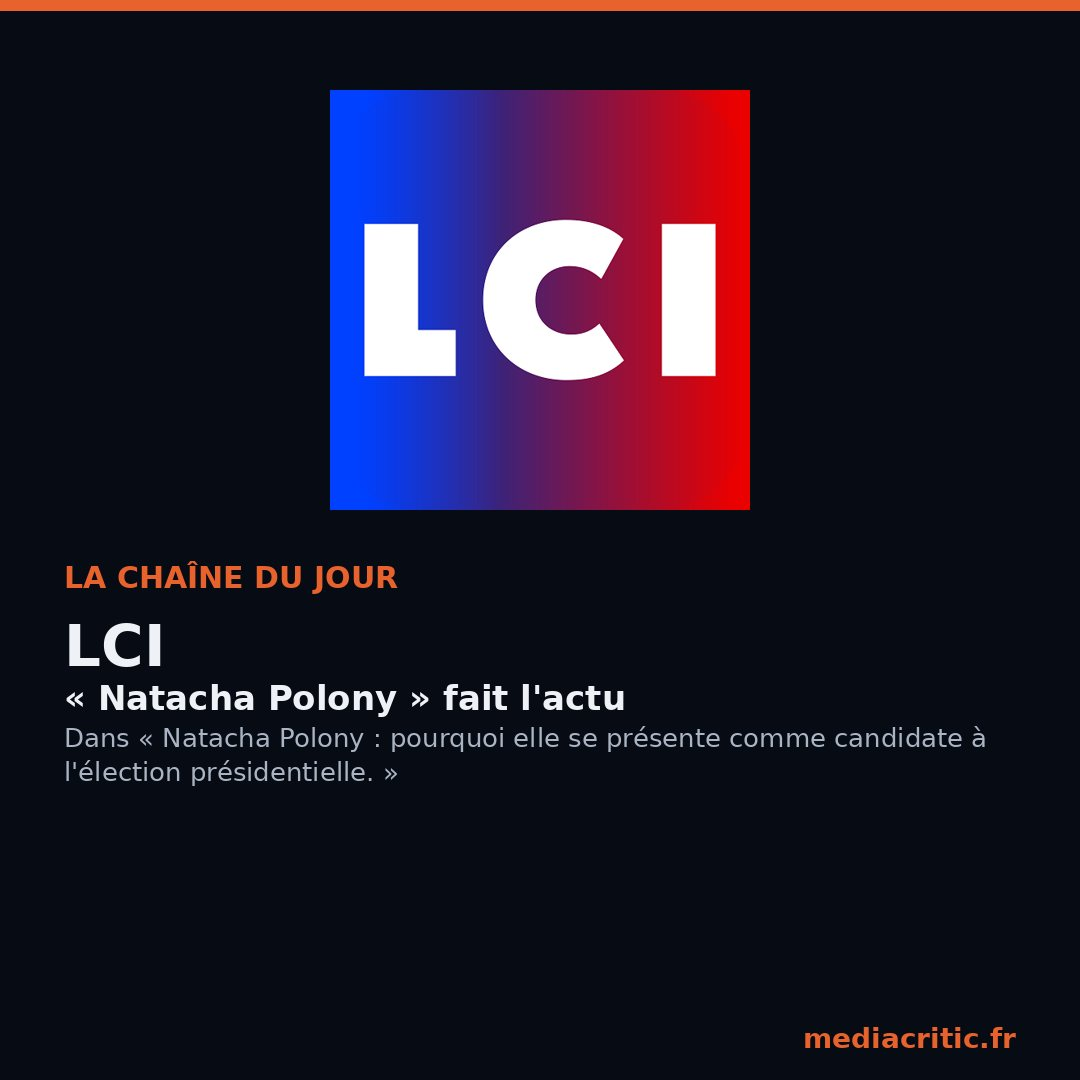
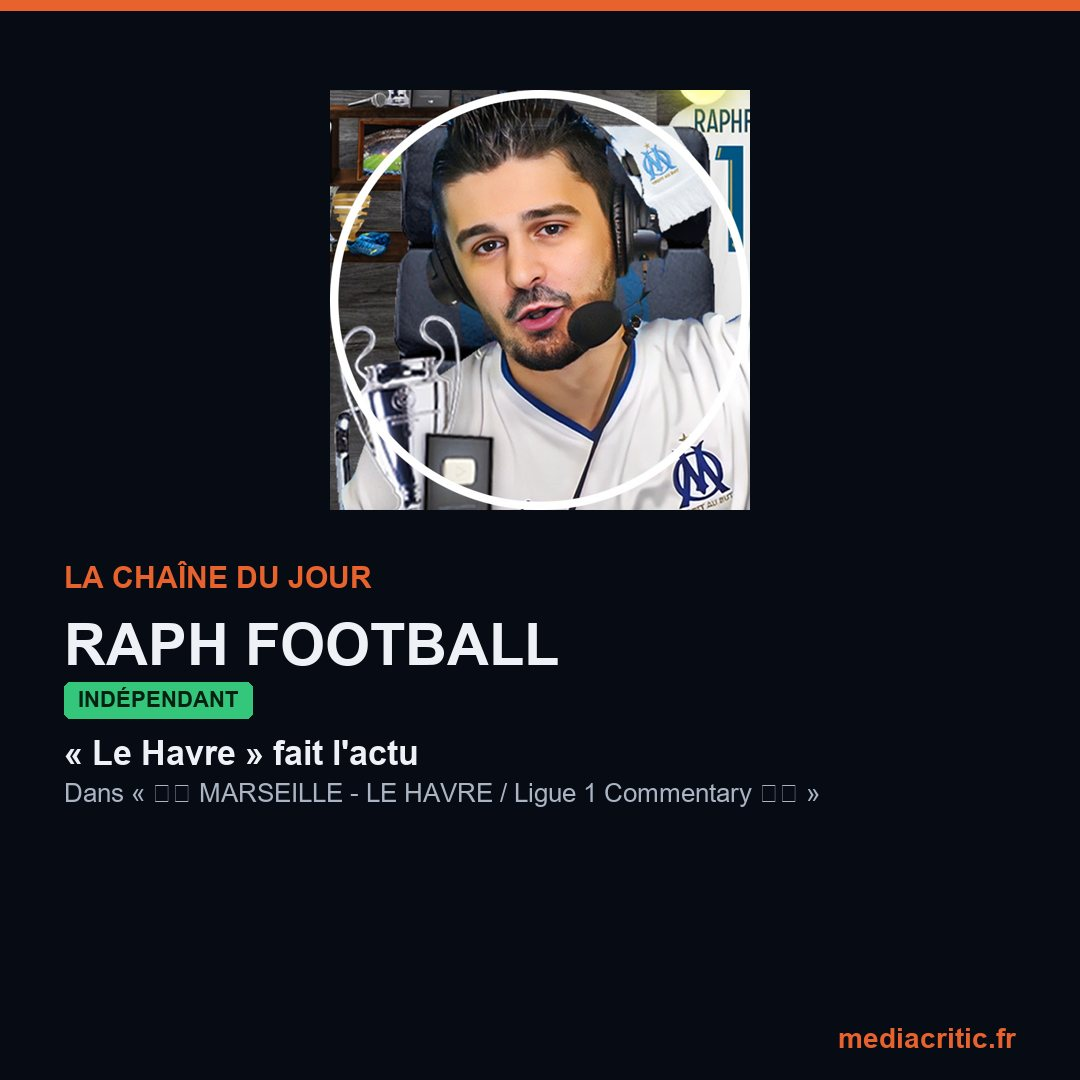
Podcast du jour du 26/10 : RAPH FOOTBALL (Le Havre) remplace LCI ; « Pourquoi ce choix » détaillé
- Émissions et chaînes d'information exclues (catégorie principale
  « actualité » ou média d'info, HugoDécrypte compris) ; sur YouTube,
  seules les chaînes indépendantes sont retenues ; un sujet ne revient
  pas avant 7 jours.
- Bloc « Pourquoi ce choix » : le sujet et sa force, la preuve (épisode,
  date), pourquoi cette émission, ce qui a été écarté.

diff --git a/podcast-du-jour.html b/podcast-du-jour.html
@@ -11,18 +11,18 @@
 <link rel="canonical" href="https://www.mediacritic.fr/podcast-du-jour.html" />
 <meta property="og:type" content="website" />
 <meta property="og:url" content="https://www.mediacritic.fr/podcast-du-jour.html" />
-<meta property="og:title" content="🔥 La chaîne du jour : LCI" />
-<meta property="og:description" content="« Natacha Polony » figure parmi les articles les plus lus de Wikipédia en français hier. LCI y a consacré la vidéo « Natacha Polony : pourquoi elle se présente comme candidate à l&#x27;élection présidentielle. », publiée le 25 octobre." />
+<meta property="og:title" content="🔥 La chaîne du jour : RAPH FOOTBALL" />
+<meta property="og:description" content="« Le Havre » figure parmi les recherches en forte hausse sur Google en France. RAPH FOOTBALL y a consacré la vidéo « 🔵⚪ MARSEILLE - LE HAVRE / Ligue 1 Commentary 🎙 », publiée le 25 octobre." />
 <meta property="og:image" content="https://www.mediacritic.fr/assets/du-jour/2026-10-26.jpg" />
 <meta property="og:locale" content="fr_FR" />
 <meta name="twitter:card" content="summary_large_image" />
-<meta name="twitter:title" content="🔥 La chaîne du jour : LCI" />
-<meta name="twitter:description" content="« Natacha Polony » figure parmi les articles les plus lus de Wikipédia en français hier. LCI y a consacré la vidéo « Natacha Polony : pourquoi elle se présente comme candidate à l&#x27;élection présidentielle. », publiée le 25 octobre." />
+<meta name="twitter:title" content="🔥 La chaîne du jour : RAPH FOOTBALL" />
+<meta name="twitter:description" content="« Le Havre » figure parmi les recherches en forte hausse sur Google en France. RAPH FOOTBALL y a consacré la vidéo « 🔵⚪ MARSEILLE - LE HAVRE / Ligue 1 Commentary 🎙 », publiée le 25 octobre." />
 <meta name="twitter:image" content="https://www.mediacritic.fr/assets/du-jour/2026-10-26.jpg" />
 <link rel="icon" href="assets/logo.png" type="image/png" />
 <link rel="preconnect" href="https://fonts.googleapis.com" />
 <link href="https://fonts.googleapis.com/css2?family=Inter:wght@400;500;600;700&family=Syne:wght@700;800&display=swap" rel="stylesheet" />
-<script type="application/ld+json">{"@context": "https://schema.org", "@graph": [{"@type": "CollectionPage", "@id": "https://www.mediacritic.fr/podcast-du-jour.html", "url": "https://www.mediacritic.fr/podcast-du-jour.html", "name": "Le podcast du jour : l'actu en podcast et sur YouTube", "description": "Chaque matin, le podcast ou la chaîne YouTube francophone qui parle de l'actualité, preuve à l'appui : l'épisode, sa date, son lien.", "inLanguage": "fr-FR", "isPartOf": {"@id": "https://www.mediacritic.fr/#annuaire"}}, {"@type": "ItemList", "name": "Les podcasts du jour", "numberOfItems": 2, "itemListElement": [{"@type": "ListItem", "position": 1, "url": "https://www.mediacritic.fr/fiches/lci.html", "name": "LCI"}, {"@type": "ListItem", "position": 2, "url": "https://www.mediacritic.fr/fiches/les-grosses-tetes.html", "name": "Les Grosses Têtes"}]}, {"@type": "BreadcrumbList", "itemListElement": [{"@type": "ListItem", "position": 1, "name": "MediaCritic", "item": "https://www.mediacritic.fr/"}, {"@type": "ListItem", "position": 2, "name": "Le podcast du jour", "item": "https://www.mediacritic.fr/podcast-du-jour.html"}]}]}</script>
+<script type="application/ld+json">{"@context": "https://schema.org", "@graph": [{"@type": "CollectionPage", "@id": "https://www.mediacritic.fr/podcast-du-jour.html", "url": "https://www.mediacritic.fr/podcast-du-jour.html", "name": "Le podcast du jour : l'actu en podcast et sur YouTube", "description": "Chaque matin, le podcast ou la chaîne YouTube francophone qui parle de l'actualité, preuve à l'appui : l'épisode, sa date, son lien.", "inLanguage": "fr-FR", "isPartOf": {"@id": "https://www.mediacritic.fr/#annuaire"}}, {"@type": "ItemList", "name": "Les podcasts du jour", "numberOfItems": 2, "itemListElement": [{"@type": "ListItem", "position": 1, "url": "https://www.mediacritic.fr/fiches/raph-football.html", "name": "RAPH FOOTBALL"}, {"@type": "ListItem", "position": 2, "url": "https://www.mediacritic.fr/fiches/les-grosses-tetes.html", "name": "Les Grosses Têtes"}]}, {"@type": "BreadcrumbList", "itemListElement": [{"@type": "ListItem", "position": 1, "name": "MediaCritic", "item": "https://www.mediacritic.fr/"}, {"@type": "ListItem", "position": 2, "name": "Le podcast du jour", "item": "https://www.mediacritic.fr/podcast-du-jour.html"}]}]}</script>
 <style>
 body{margin:0;background:var(--mc-bg);color:var(--mc-text)}
 a{color:inherit}
@@ -46,7 +46,7 @@ l'épisode, sa date et son lien.</p>
 écartés d'office : nous ne faisons pas d'audience sur un malheur. Les jours où aucune émission
 de l'annuaire ne colle à l'actualité, nous le disons, et nous mettons en avant une pépite
 <a href="podcasts-independants.html">indépendante</a>.</p>
-<section class="mcj-zone"><article class="mcj" aria-label="🔥 La chaîne du jour"><a class="mcj-cover" href="fiches/lci.html"><img src="https://yt3.ggpht.com/axUu4T0GpK2r7qSRfbxbU1KjgNqPIDJKN4X9UrEK6qVFIRNfLVjvFp9YFj5V1M-j-TqU1cpDeA=s800" alt="LCI" width="160" height="160" loading="eager" decoding="async" /></a><div class="mcj-txt"><p class="mcj-eyebrow">🔥 La chaîne du jour · 26 octobre</p><h2 class="mcj-titre"><a href="fiches/lci.html">LCI</a></h2><p class="mcj-labels"></p><p class="mcj-pourquoi">« Natacha Polony » figure parmi les articles les plus lus de Wikipédia en français hier. LCI y a consacré la vidéo « Natacha Polony : pourquoi elle se présente comme candidate à l&#x27;élection présidentielle. », publiée le 25 octobre.</p><p class="mcj-pres">Bienvenue sur LCI. Le meilleur de l&#x27;info, de l&#x27;analyse, du décryptage et tous les grands événements en direct</p><div class="mcj-actions"><a class="mcj-btn mcj-btn-1" href="https://www.youtube.com/watch?v=sJBl5IFTg44" target="_blank" rel="noopener">▶ Voir la vidéo</a><a class="mcj-btn" href="fiches/lci.html">Voir la fiche</a></div></div></article></section>
+<section class="mcj-zone"><article class="mcj" aria-label="🔥 La chaîne du jour"><a class="mcj-cover" href="fiches/raph-football.html"><img src="https://yt3.ggpht.com/xP40cQJUC-PDU7FTe9KYsKMNUEXlUu6V5khXT8NOSLPrJyRKyPZsVsyy1f3O1SeoIuj3Z-QF8Lc=s800" alt="RAPH FOOTBALL" width="160" height="160" loading="eager" decoding="async" /></a><div class="mcj-txt"><p class="mcj-eyebrow">🔥 La chaîne du jour · 26 octobre</p><h2 class="mcj-titre"><a href="fiches/raph-football.html">RAPH FOOTBALL</a></h2><p class="mcj-labels"><a class="mc-indep" href="podcasts-independants.html" title="Publié hors radios, presse, studios et institutions : voir le guide">Indépendant</a></p><div class="mcj-raisons"><p class="mcj-raisons-t">Pourquoi ce choix</p><ul><li><strong>🔥 Le sujet</strong> « Le Havre » : recherche en forte hausse sur Google en France (20 000+ recherches).</li><li><strong>🎧 La preuve</strong> La vidéo « 🔵⚪ MARSEILLE - LE HAVRE / Ligue 1 Commentary 🎙 », publiée le 25 octobre (hier).</li><li><strong>✅ Pourquoi elle</strong> meilleure correspondance parmi 2 émissions ayant traité un sujet du jour (sujet le plus consulté, épisode le plus récent, audience) ; 771 000 abonnés YouTube, chaîne indépendante.</li><li><strong>🚫 Écartés</strong> ce matin : 6 sujet(s) sensible(s) (drames, faits divers, guerres…), les 522 émissions et chaînes d&#x27;information, et les émissions déjà mises en avant ces 30 derniers jours (et les sujets des 7 derniers jours).</li></ul></div><p class="mcj-pres">💙Passionné de l&#x27;OM et du Football ⚽</p><div class="mcj-actions"><a class="mcj-btn mcj-btn-1" href="https://www.youtube.com/watch?v=nJENYMXqVUM" target="_blank" rel="noopener">▶ Voir la vidéo</a><a class="mcj-btn" href="fiches/raph-football.html">Voir la fiche</a></div></div></article></section>
 <section class="mcj-archive"><h2>Les sélections précédentes</h2><ol class="mcj-liste"><li class="mcj-l"><span class="mcj-l-date">25 octobre 2026</span><a href="fiches/les-grosses-tetes.html">Les Grosses Têtes</a><span class="mcj-l-quoi">« Laurent Nuñez » — FAKE NEWS - Apple, Laurent Nunez, manifestations... Quelle Grosse Tête dit vrai ?</span></li></ol></section>
 </main>
 <!-- mc-footer --><footer class="mcf"><div class="mcf-in"><div class="mcf-brand"><a class="mcf-logo" href="/"><img src="/assets/logo.png" alt="" width="28" height="28" /><span>MediaCritic</span></a><p>Le podcast qui donne son avis, même quand on ne lui a pas demandé, et l&#39;annuaire des podcasts et chaînes YouTube francophones.</p><div class="mcf-social"><a href="https://www.instagram.com/mediacritic.inc/" target="_blank" rel="noopener noreferrer" aria-label="Instagram"><svg aria-hidden="true" focusable="false" viewBox="0 0 24 24"><path d="M12 2.163c3.204 0 3.584.012 4.85.07 3.252.148 4.771 1.691 4.919 4.919.058 1.265.069 1.645.069 4.849 0 3.205-.012 3.584-.069 4.849-.149 3.225-1.664 4.771-4.919 4.919-1.266.058-1.644.07-4.85.07-3.204 0-3.584-.012-4.849-.07-3.26-.149-4.771-1.699-4.919-4.92-.058-1.265-.07-1.644-.07-4.849 0-3.204.013-3.583.07-4.849.149-3.227 1.664-4.771 4.919-4.919 1.266-.057 1.645-.069 4.849-.069zm0-2.163c-3.259 0-3.667.014-4.947.072-4.358.2-6.78 2.618-6.98 6.98-.059 1.281-.073 1.689-.073 4.948 0 3.259.014 3.668.072 4.948.2 4.358 2.618 6.78 6.98 6.98 1.281.058 1.689.072 4.948.072 3.259 0 3.668-.014 4.948-.072 4.354-.2 6.782-2.618 6.979-6.98.059-1.28.073-1.689.073-4.948 0-3.259-.014-3.667-.072-4.947-.196-4.354-2.617-6.78-6.979-6.98-1.281-.059-1.69-.073-4.949-.073zm0 5.838c-3.403 0-6.162 2.759-6.162 6.162s2.759 6.163 6.162 6.163 6.162-2.759 6.162-6.163c0-3.403-2.759-6.162-6.162-6.162zm0 10.162c-2.209 0-4-1.79-4-4 0-2.209 1.791-4 4-4s4 1.791 4 4c0 2.21-1.791 4-4 4zm6.406-11.845c-.796 0-1.441.645-1.441 1.44s.645 1.44 1.441 1.44c.795 0 1.439-.645 1.439-1.44s-.644-1.44-1.439-1.44z"/></svg></a><a href="https://www.tiktok.com/@mediacritic_le_podcast" target="_blank" rel="noopener noreferrer" aria-label="TikTok"><svg aria-hidden="true" focusable="false" viewBox="0 0 24 24"><path d="M19.59 6.69a4.83 4.83 0 0 1-3.77-4.25V2h-3.45v13.67a2.89 2.89 0 0 1-2.88 2.5 2.89 2.89 0 0 1-2.89-2.89 2.89 2.89 0 0 1 2.89-2.89c.28 0 .54.04.79.1V9.01a6.33 6.33 0 0 0-.79-.05 6.34 6.34 0 0 0-6.34 6.34 6.34 6.34 0 0 0 6.34 6.34 6.34 6.34 0 0 0 6.33-6.34V8.69a8.18 8.18 0 0 0 4.78 1.52V6.75a4.85 4.85 0 0 1-1.01-.06z"/></svg></a><a href="https://www.youtube.com/@MediaCriticInc" target="_blank" rel="noopener noreferrer" aria-label="YouTube"><svg aria-hidden="true" focusable="false" viewBox="0 0 24 24"><path d="M23.498 6.186a3.016 3.016 0 0 0-2.122-2.136C19.505 3.545 12 3.545 12 3.545s-7.505 0-9.377.505A3.017 3.017 0 0 0 .502 6.186C0 8.07 0 12 0 12s0 3.93.502 5.814a3.016 3.016 0 0 0 2.122 2.136c1.871.505 9.376.505 9.376.505s7.505 0 9.377-.505a3.015 3.015 0 0 0 2.122-2.136C24 15.93 24 12 24 12s0-3.93-.502-5.814zM9.545 15.568V8.432L15.818 12l-6.273 3.568z"/></svg></a><a href="https://x.com/MediaCriticInc" target="_blank" rel="noopener noreferrer" aria-label="X"><svg aria-hidden="true" focusable="false" viewBox="0 0 24 24"><path d="M18.244 2.25h3.308l-7.227 8.26 8.502 11.24H16.17l-4.714-6.231-5.401 6.231H2.746l7.73-8.835L1.254 2.25H8.08l4.253 5.622zm-1.161 17.52h1.833L7.084 4.126H5.117z"/></svg></a><a href="https://www.linkedin.com/in/mediacritic-le-podcast-b890743a1/" target="_blank" rel="noopener noreferrer" aria-label="LinkedIn"><svg aria-hidden="true" focusable="false" viewBox="0 0 24 24"><path d="M20.447 20.452h-3.554v-5.569c0-1.328-.027-3.037-1.852-3.037-1.853 0-2.136 1.445-2.136 2.939v5.667H9.351V9h3.414v1.561h.046c.477-.9 1.637-1.85 3.37-1.85 3.601 0 4.267 2.37 4.267 5.455v6.286zM5.337 7.433c-1.144 0-2.063-.926-2.063-2.065 0-1.138.92-2.063 2.063-2.063 1.14 0 2.064.925 2.064 2.063 0 1.139-.925 2.065-2.064 2.065zm1.782 13.019H3.555V9h3.564v11.452zM22.225 0H1.771C.792 0 0 .774 0 1.729v20.542C0 23.227.792 24 1.771 24h20.451C23.2 24 24 23.227 24 22.271V1.729C24 .774 23.2 0 22.222 0h.003z"/></svg></a></div></div><div><p class="mcf-t">MediaCritic</p><ul><li><a href="/catalogue.html">Annuaire</a></li><li><a href="/classement.html">Classement</a></li><li><a href="/podcasts-independants.html">Les indépendants</a></li><li><a href="/podcast-du-jour.html">Le podcast du jour</a></li><li><a href="/palmares.html">Palmarès des critiques</a></li><li><a href="/comparer.html">Comparateur</a></li><li><a href="/qui-sommes-nous.html">L&#39;équipe</a></li><li><a href="/contact.html">Contact</a></li><li><a href="/mentions-legales.html">Mentions légales</a></li></ul></div><div><p class="mcf-t">Catégories</p><ul><li><a href="/categories/histoire.html">Histoire</a></li><li><a href="/categories/true-crime.html">True crime</a></li><li><a href="/categories/culture-societe.html">Culture & société</a></li><li><a href="/categories/sciences.html">Sciences</a></li><li><a href="/categories/tech.html">Tech</a></li><li><a href="/categories/gaming.html">Gaming</a></li><li><a href="/categories/cinema-series.html">Cinéma & séries</a></li><li><a href="/categories/musique.html">Musique</a></li><li><a href="/categories/humour.html">Humour</a></li><li><a href="/categories/sport.html">Sport</a></li><li><a href="/categories/business.html">Business</a></li><li><a href="/categories/cuisine-gastronomie.html">Cuisine</a></li><li><a href="/categories/voyage.html">Voyage</a></li></ul></div><div><p class="mcf-t">Écouter</p><ul><li><a href="https://open.spotify.com/show/5JuffYLQq1q6l7Vh2zvkrV" target="_blank" rel="noopener noreferrer">Spotify</a></li><li><a href="https://podcasts.apple.com/fr/podcast/mediacritic/id1853247643" target="_blank" rel="noopener noreferrer">Apple Podcasts</a></li><li><a href="https://www.deezer.com/fr/show/1002376672" target="_blank" rel="noopener noreferrer">Deezer</a></li><li><a href="https://www.youtube.com/@MediaCriticInc" target="_blank" rel="noopener noreferrer">YouTube</a></li></ul></div></div><div class="mcf-bas"><p>© 2026 MediaCritic · <a href="/contact.html">mediacriticinc@gmail.com</a></p><p id="footer-updated"></p></div></footer><!-- /mc-footer -->

diff --git a/kit-du-jour.html b/kit-du-jour.html
@@ -28,42 +28,42 @@ body{margin:0;background:var(--mc-bg);color:var(--mc-text)}
 <p>Page de travail de l'équipe (non référencée). Textes prêts à copier, visuels à télécharger.
 Chaque lien porte un marqueur de suivi par réseau, visible dans Google Analytics
 (campagne « du-jour »).</p>
-<article class="mcj" aria-label="🔥 La chaîne du jour"><a class="mcj-cover" href="fiches/lci.html"><img src="https://yt3.ggpht.com/axUu4T0GpK2r7qSRfbxbU1KjgNqPIDJKN4X9UrEK6qVFIRNfLVjvFp9YFj5V1M-j-TqU1cpDeA=s800" alt="LCI" width="160" height="160" loading="eager" decoding="async" /></a><div class="mcj-txt"><p class="mcj-eyebrow">🔥 La chaîne du jour · 26 octobre</p><h2 class="mcj-titre"><a href="fiches/lci.html">LCI</a></h2><p class="mcj-labels"></p><p class="mcj-pourquoi">« Natacha Polony » figure parmi les articles les plus lus de Wikipédia en français hier. LCI y a consacré la vidéo « Natacha Polony : pourquoi elle se présente comme candidate à l&#x27;élection présidentielle. », publiée le 25 octobre.</p><p class="mcj-pres">Bienvenue sur LCI. Le meilleur de l&#x27;info, de l&#x27;analyse, du décryptage et tous les grands événements en direct</p><div class="mcj-actions"><a class="mcj-btn mcj-btn-1" href="https://www.youtube.com/watch?v=sJBl5IFTg44" target="_blank" rel="noopener">▶ Voir la vidéo</a><a class="mcj-btn" href="fiches/lci.html">Voir la fiche</a></div></div></article>
+<article class="mcj" aria-label="🔥 La chaîne du jour"><a class="mcj-cover" href="fiches/raph-football.html"><img src="https://yt3.ggpht.com/xP40cQJUC-PDU7FTe9KYsKMNUEXlUu6V5khXT8NOSLPrJyRKyPZsVsyy1f3O1SeoIuj3Z-QF8Lc=s800" alt="RAPH FOOTBALL" width="160" height="160" loading="eager" decoding="async" /></a><div class="mcj-txt"><p class="mcj-eyebrow">🔥 La chaîne du jour · 26 octobre</p><h2 class="mcj-titre"><a href="fiches/raph-football.html">RAPH FOOTBALL</a></h2><p class="mcj-labels"><a class="mc-indep" href="podcasts-independants.html" title="Publié hors radios, presse, studios et institutions : voir le guide">Indépendant</a></p><div class="mcj-raisons"><p class="mcj-raisons-t">Pourquoi ce choix</p><ul><li><strong>🔥 Le sujet</strong> « Le Havre » : recherche en forte hausse sur Google en France (20 000+ recherches).</li><li><strong>🎧 La preuve</strong> La vidéo « 🔵⚪ MARSEILLE - LE HAVRE / Ligue 1 Commentary 🎙 », publiée le 25 octobre (hier).</li><li><strong>✅ Pourquoi elle</strong> meilleure correspondance parmi 2 émissions ayant traité un sujet du jour (sujet le plus consulté, épisode le plus récent, audience) ; 771 000 abonnés YouTube, chaîne indépendante.</li><li><strong>🚫 Écartés</strong> ce matin : 6 sujet(s) sensible(s) (drames, faits divers, guerres…), les 522 émissions et chaînes d&#x27;information, et les émissions déjà mises en avant ces 30 derniers jours (et les sujets des 7 derniers jours).</li></ul></div><p class="mcj-pres">💙Passionné de l&#x27;OM et du Football ⚽</p><div class="mcj-actions"><a class="mcj-btn mcj-btn-1" href="https://www.youtube.com/watch?v=nJENYMXqVUM" target="_blank" rel="noopener">▶ Voir la vidéo</a><a class="mcj-btn" href="fiches/raph-football.html">Voir la fiche</a></div></div></article>
 <figure><img src="assets/du-jour/2026-10-26.jpg" alt="Visuel 1200×630 (X, Facebook, LinkedIn, Bluesky)" loading="lazy" /><figcaption><a href="assets/du-jour/2026-10-26.jpg" download>Télécharger — Visuel 1200×630 (X, Facebook, LinkedIn, Bluesky)</a></figcaption></figure><figure><img src="assets/du-jour/2026-10-26-carre.jpg" alt="Visuel 1080×1080 (Instagram, Threads)" loading="lazy" /><figcaption><a href="assets/du-jour/2026-10-26-carre.jpg" download>Télécharger — Visuel 1080×1080 (Instagram, Threads)</a></figcaption></figure>
-<section class="kit-b"><h2>X</h2><textarea readonly rows="8" id="t-0">🔥 La chaîne du jour : LCI
+<section class="kit-b"><h2>X</h2><textarea readonly rows="8" id="t-0">🔥 La chaîne du jour : RAPH FOOTBALL
 
-« Natacha Polony » fait l&#x27;actu. LCI en parle dans « Natacha Polony : pourquoi elle se présente comme candidate à l&#x27;élection présidentielle. ».
+« Le Havre » fait l&#x27;actu. RAPH FOOTBALL en parle dans « 🔵⚪ MARSEILLE - LE HAVRE / Ligue 1 Commentary 🎙 ».
 
 👉 https://www.mediacritic.fr/podcast-du-jour.html?utm_source=x&amp;utm_medium=social&amp;utm_campaign=du-jour
-#podcast</textarea><button type="button" onclick="navigator.clipboard.writeText(document.getElementById('t-0').value);this.textContent='Copié ✓'">Copier</button></section><section class="kit-b"><h2>Bluesky</h2><textarea readonly rows="8" id="t-1">🔥 La chaîne du jour : LCI
+#podcast</textarea><button type="button" onclick="navigator.clipboard.writeText(document.getElementById('t-0').value);this.textContent='Copié ✓'">Copier</button></section><section class="kit-b"><h2>Bluesky</h2><textarea readonly rows="8" id="t-1">🔥 La chaîne du jour : RAPH FOOTBALL
 
-« Natacha Polony » fait l&#x27;actu. LCI en parle dans « Natacha Polony : pourquoi elle se présente comme candidate à l&#x27;élection présidentielle. ».
+« Le Havre » fait l&#x27;actu. RAPH FOOTBALL en parle dans « 🔵⚪ MARSEILLE - LE HAVRE / Ligue 1 Commentary 🎙 ».
 
-https://www.mediacritic.fr/podcast-du-jour.html?utm_source=bluesky&amp;utm_medium=social&amp;utm_campaign=du-jour</textarea><button type="button" onclick="navigator.clipboard.writeText(document.getElementById('t-1').value);this.textContent='Copié ✓'">Copier</button></section><section class="kit-b"><h2>Threads</h2><textarea readonly rows="8" id="t-2">🔥 La chaîne du jour : LCI
+https://www.mediacritic.fr/podcast-du-jour.html?utm_source=bluesky&amp;utm_medium=social&amp;utm_campaign=du-jour</textarea><button type="button" onclick="navigator.clipboard.writeText(document.getElementById('t-1').value);this.textContent='Copié ✓'">Copier</button></section><section class="kit-b"><h2>Threads</h2><textarea readonly rows="8" id="t-2">🔥 La chaîne du jour : RAPH FOOTBALL
 
-« Natacha Polony » fait l&#x27;actu. LCI en parle dans « Natacha Polony : pourquoi elle se présente comme candidate à l&#x27;élection présidentielle. ».
+« Le Havre » fait l&#x27;actu. RAPH FOOTBALL en parle dans « 🔵⚪ MARSEILLE - LE HAVRE / Ligue 1 Commentary 🎙 ».
 
-https://www.mediacritic.fr/podcast-du-jour.html?utm_source=threads&amp;utm_medium=social&amp;utm_campaign=du-jour</textarea><button type="button" onclick="navigator.clipboard.writeText(document.getElementById('t-2').value);this.textContent='Copié ✓'">Copier</button></section><section class="kit-b"><h2>Facebook</h2><textarea readonly rows="8" id="t-3">🔥 La chaîne du jour : LCI
+https://www.mediacritic.fr/podcast-du-jour.html?utm_source=threads&amp;utm_medium=social&amp;utm_campaign=du-jour</textarea><button type="button" onclick="navigator.clipboard.writeText(document.getElementById('t-2').value);this.textContent='Copié ✓'">Copier</button></section><section class="kit-b"><h2>Facebook</h2><textarea readonly rows="8" id="t-3">🔥 La chaîne du jour : RAPH FOOTBALL
 
-« Natacha Polony » fait l&#x27;actu. LCI en parle dans « Natacha Polony : pourquoi elle se présente comme candidate à l&#x27;élection présidentielle. ».
+« Le Havre » fait l&#x27;actu. RAPH FOOTBALL en parle dans « 🔵⚪ MARSEILLE - LE HAVRE / Ligue 1 Commentary 🎙 ».
 
-Bienvenue sur LCI. Le meilleur de l&#x27;info, de l&#x27;analyse, du décryptage et tous les grands événements en direct
+💙Passionné de l&#x27;OM et du Football ⚽
 
-👉 https://www.mediacritic.fr/podcast-du-jour.html?utm_source=facebook&amp;utm_medium=social&amp;utm_campaign=du-jour</textarea><button type="button" onclick="navigator.clipboard.writeText(document.getElementById('t-3').value);this.textContent='Copié ✓'">Copier</button></section><section class="kit-b"><h2>LinkedIn</h2><textarea readonly rows="8" id="t-4">🔥 La chaîne du jour : LCI
+👉 https://www.mediacritic.fr/podcast-du-jour.html?utm_source=facebook&amp;utm_medium=social&amp;utm_campaign=du-jour</textarea><button type="button" onclick="navigator.clipboard.writeText(document.getElementById('t-3').value);this.textContent='Copié ✓'">Copier</button></section><section class="kit-b"><h2>LinkedIn</h2><textarea readonly rows="8" id="t-4">🔥 La chaîne du jour : RAPH FOOTBALL
 
-« Natacha Polony » fait l&#x27;actu. LCI en parle dans « Natacha Polony : pourquoi elle se présente comme candidate à l&#x27;élection présidentielle. ».
+« Le Havre » fait l&#x27;actu. RAPH FOOTBALL en parle dans « 🔵⚪ MARSEILLE - LE HAVRE / Ligue 1 Commentary 🎙 ».
 
-Bienvenue sur LCI. Le meilleur de l&#x27;info, de l&#x27;analyse, du décryptage et tous les grands événements en direct
+💙Passionné de l&#x27;OM et du Football ⚽
 
 Chaque matin, MediaCritic croise l&#x27;actualité avec les épisodes des podcasts et chaînes YouTube de son annuaire. Seule règle : un lien prouvé, épisode à l&#x27;appui.
 
 👉 https://www.mediacritic.fr/podcast-du-jour.html?utm_source=linkedin&amp;utm_medium=social&amp;utm_campaign=du-jour
 
-#podcast #podcastfrançais #actualité</textarea><button type="button" onclick="navigator.clipboard.writeText(document.getElementById('t-4').value);this.textContent='Copié ✓'">Copier</button></section><section class="kit-b"><h2>Instagram</h2><textarea readonly rows="8" id="t-5">🔥 La chaîne du jour : LCI
+#podcast #podcastfrançais #actualité</textarea><button type="button" onclick="navigator.clipboard.writeText(document.getElementById('t-4').value);this.textContent='Copié ✓'">Copier</button></section><section class="kit-b"><h2>Instagram</h2><textarea readonly rows="8" id="t-5">🔥 La chaîne du jour : RAPH FOOTBALL
 
-« Natacha Polony » fait l&#x27;actu. LCI en parle dans « Natacha Polony : pourquoi elle se présente comme candidate à l&#x27;élection présidentielle. ».
+« Le Havre » fait l&#x27;actu. RAPH FOOTBALL en parle dans « 🔵⚪ MARSEILLE - LE HAVRE / Ligue 1 Commentary 🎙 ».
 
-Bienvenue sur LCI. Le meilleur de l&#x27;info, de l&#x27;analyse, du décryptage et tous les grands événements en direct
+💙Passionné de l&#x27;OM et du Football ⚽
 
 🔗 Lien en bio — mediacritic.fr
 

diff --git a/index.html b/index.html
@@ -441,7 +441,7 @@
 </div>
 
 <!-- du-jour -->
-<section class="mcj-zone" aria-label="Le podcast du jour"><article class="mcj" aria-label="🔥 La chaîne du jour"><a class="mcj-cover" href="fiches/lci.html"><img src="https://yt3.ggpht.com/axUu4T0GpK2r7qSRfbxbU1KjgNqPIDJKN4X9UrEK6qVFIRNfLVjvFp9YFj5V1M-j-TqU1cpDeA=s800" alt="LCI" width="160" height="160" loading="eager" decoding="async" /></a><div class="mcj-txt"><p class="mcj-eyebrow">🔥 La chaîne du jour · 26 octobre</p><h2 class="mcj-titre"><a href="fiches/lci.html">LCI</a></h2><p class="mcj-labels"></p><p class="mcj-pourquoi">« Natacha Polony » figure parmi les articles les plus lus de Wikipédia en français hier. LCI y a consacré la vidéo « Natacha Polony : pourquoi elle se présente comme candidate à l&#x27;élection présidentielle. », publiée le 25 octobre.</p><p class="mcj-pres">Bienvenue sur LCI. Le meilleur de l&#x27;info, de l&#x27;analyse, du décryptage et tous les grands événements en direct</p><div class="mcj-actions"><a class="mcj-btn mcj-btn-1" href="https://www.youtube.com/watch?v=sJBl5IFTg44" target="_blank" rel="noopener">▶ Voir la vidéo</a><a class="mcj-btn" href="fiches/lci.html">Voir la fiche</a><a class="mcj-btn mcj-btn-lien" href="podcast-du-jour.html">Les sélections précédentes →</a></div></div></article></section>
+<section class="mcj-zone" aria-label="Le podcast du jour"><article class="mcj" aria-label="🔥 La chaîne du jour"><a class="mcj-cover" href="fiches/raph-football.html"><img src="https://yt3.ggpht.com/xP40cQJUC-PDU7FTe9KYsKMNUEXlUu6V5khXT8NOSLPrJyRKyPZsVsyy1f3O1SeoIuj3Z-QF8Lc=s800" alt="RAPH FOOTBALL" width="160" height="160" loading="eager" decoding="async" /></a><div class="mcj-txt"><p class="mcj-eyebrow">🔥 La chaîne du jour · 26 octobre</p><h2 class="mcj-titre"><a href="fiches/raph-football.html">RAPH FOOTBALL</a></h2><p class="mcj-labels"><a class="mc-indep" href="podcasts-independants.html" title="Publié hors radios, presse, studios et institutions : voir le guide">Indépendant</a></p><div class="mcj-raisons"><p class="mcj-raisons-t">Pourquoi ce choix</p><ul><li><strong>🔥 Le sujet</strong> « Le Havre » : recherche en forte hausse sur Google en France (20 000+ recherches).</li><li><strong>🎧 La preuve</strong> La vidéo « 🔵⚪ MARSEILLE - LE HAVRE / Ligue 1 Commentary 🎙 », publiée le 25 octobre (hier).</li><li><strong>✅ Pourquoi elle</strong> meilleure correspondance parmi 2 émissions ayant traité un sujet du jour (sujet le plus consulté, épisode le plus récent, audience) ; 771 000 abonnés YouTube, chaîne indépendante.</li><li><strong>🚫 Écartés</strong> ce matin : 6 sujet(s) sensible(s) (drames, faits divers, guerres…), les 522 émissions et chaînes d&#x27;information, et les émissions déjà mises en avant ces 30 derniers jours (et les sujets des 7 derniers jours).</li></ul></div><p class="mcj-pres">💙Passionné de l&#x27;OM et du Football ⚽</p><div class="mcj-actions"><a class="mcj-btn mcj-btn-1" href="https://www.youtube.com/watch?v=nJENYMXqVUM" target="_blank" rel="noopener">▶ Voir la vidéo</a><a class="mcj-btn" href="fiches/raph-football.html">Voir la fiche</a><a class="mcj-btn mcj-btn-lien" href="podcast-du-jour.html">Les sélections précédentes →</a></div></div></article></section>
 <!-- /du-jour -->
 
 <!-- SEARCH + FILTERS -->

diff --git a/fiches/raph-football.html b/fiches/raph-football.html
@@ -45,7 +45,7 @@
         <a href="../catalogue.html">Catalogue</a> ›
         RAPH FOOTBALL
       </nav>
-      <div class="badges"><span class="badge badge-type">Chaîne YouTube</span> <a class="mc-indep mc-indep-lg" href="../podcasts-independants.html" title="Publié hors médias, studios, marques et institutions : voir le guide">Chaîne indépendante</a> <span class="badge badge-cat">football</span> <span class="badge badge-cat">sport</span></div>
+      <div class="badges"><span class="badge badge-type">Chaîne YouTube</span> <a class="mc-indep mc-indep-lg" href="../podcasts-independants.html" title="Publié hors médias, studios, marques et institutions : voir le guide">Chaîne indépendante</a> <span class="badge badge-cat">football</span> <span class="badge badge-cat">sport</span></div><p class="mc-dujour-mention">🔥 Chaîne du jour le 26 octobre 2026 · <a href="../podcast-du-jour.html">voir pourquoi</a></p>
       <h1>RAPH FOOTBALL</h1>
       <div class="author">par RAPH FOOTBALL</div>
       

diff --git a/fiches/lci.html b/fiches/lci.html
@@ -45,7 +45,7 @@
         <a href="../catalogue.html">Catalogue</a> ›
         LCI
       </nav>
-      <div class="badges"><span class="badge badge-type">Chaîne YouTube</span> <span class="badge badge-cat">actualite</span> <span class="badge badge-cat">politique</span></div><p class="mc-dujour-mention">🔥 Chaîne du jour le 26 octobre 2026 · <a href="../podcast-du-jour.html">voir pourquoi</a></p>
+      <div class="badges"><span class="badge badge-type">Chaîne YouTube</span> <span class="badge badge-cat">actualite</span> <span class="badge badge-cat">politique</span></div>
       <h1>LCI</h1>
       <div class="author">par LCI</div>
       

diff --git a/scripts/du_jour.py b/scripts/du_jour.py
@@ -176,6 +176,9 @@ def sujets_trends():
         if not t:
             continue
         lib = _texte(t.group(1))
+        if lib == lib.lower():   # Google Trends ecrit « le havre » : affichage « Le Havre »
+            lib = " ".join(w if w in ("de", "du", "des", "la", "le", "les", "et", "vs", "d", "l")
+                           and i else w[:1].upper() + w[1:] for i, w in enumerate(lib.split()))
         trafic = int(re.sub(r"\D", "", tr.group(1))) if tr else 0
         liees = " ".join(_texte(n) for n in re.findall(r"<ht:news_item_title>(.*?)</ht:news_item_title>", it, re.S))
         mots = significatifs(lib)
@@ -380,7 +383,16 @@ def plan_b(cat, hist, jour):
 def phrase_description(slug, maxi=230):
     d = ((fiche(slug) or {}).get("description") or "").strip()
     d = re.sub(r"https?://\S+", "", d)
-    phrases = re.split(r"(?<=[.!?])\s+", d)
+    # On garde le texte de presentation, pas les mentions pratiques des
+    # descriptions YouTube (reseaux sociaux, adresse de contact, partenariats).
+    d = re.split(r"\n\s*\n|mes r[ée]seaux|r[ée]seaux sociaux|instagram|partenariat|"
+                 r"contact|business|@[\w.]+|[\w.+-]+@[\w-]+\.", d, maxsplit=1, flags=re.I)[0]
+    d = re.sub(r"\s+", " ", d).strip(" -–:•|")
+    phrases = [p.strip(" ➡→•-–:") for p in re.split(r"(?<=[.!?])\s+|➡|→|•", d)]
+    # Appels a l'action (« Abonnez-vous », « Souscrivez », newsletter) : pas
+    # une presentation de l'emission.
+    phrases = [p for p in phrases if p and not re.search(
+        r"abonne|souscri|newsletter|premium|soutenez|tipeee|patreon|lien|cliquez", p, re.I)]
     out = ""
     for p in phrases:
         if len(out) + len(p) > maxi:
@@ -460,7 +472,7 @@ def main():
 
     choix = {"date": jour.isoformat()}
     nb_info = sum(1 for c in cat.values() if est_info(c))
-    ecarte_txt = (f"Écartés ce matin : {len(ecartes)} sujet(s) sensible(s) (drames, faits divers, "
+    ecarte_txt = (f"ce matin : {len(ecartes)} sujet(s) sensible(s) (drames, faits divers, "
                   f"guerres…), les {nb_info} émissions et chaînes d'information, et les "
                   f"émissions déjà mises en avant ces {SANS_REPETITION} derniers jours (et les "
                   f"sujets des 7 derniers jours).")
@@ -487,7 +499,7 @@ def main():
         n = lambda x: f"{int(x):,}".replace(",", " ")
         if s["source"] == "wikipedia":
             force = (f"son article Wikipédia a été lu {n(s['poids'])} fois hier "
-                     f"({s['rang']}{'er' if s['rang'] == 1 else 'e'} sujet le plus consulté retenu)")
+                     f"({s['rang']}{'er' if s['rang'] == 1 else 'e'} article le plus lu, hors pages techniques)")
         else:
             force = f"recherche en forte hausse sur Google en France ({n(s['poids'])}+ recherches)"
         age = (jour - date.fromisoformat(ep["date"])).days
@@ -496,7 +508,8 @@ def main():
                     else f"{n(c['ratingCount'])} avis sur Apple Podcasts" if c.get("ratingCount") else "")
         atouts = [x for x in (
             audience,
-            "émission indépendante" if c.get("independant") else "",
+            ("chaîne indépendante" if c.get("type") == "youtube" else "podcast indépendant")
+            if c.get("independant") else "",
             (f"déjà critiquée par MediaCritic ({str(c['mcNote']).replace('.', ',')}/10)"
              if c.get("mcNote") else "")) if x]
         concurrents = len({t[2]["slug"] for t in trouves})
@@ -504,8 +517,10 @@ def main():
             ["🔥 Le sujet", f"« {s['sujet']} » : {force}."],
             ["🎧 La preuve", f"{genre[0].upper() + genre[1:]} « {ep['titre']} », {publie} "
                             f"le {date_fr(ep['date'])} ({quand})."],
-            ["✅ Pourquoi elle", (f"meilleure correspondance parmi {concurrents} émission(s) ayant "
-                                  f"traité un sujet du jour — sujet le plus fort et épisode récent"
+            ["✅ Pourquoi elle", ((f"la seule émission de l'annuaire à avoir traité un sujet du jour "
+                                   f"ces {FRAICHEUR_JOURS} derniers jours" if concurrents == 1 else
+                                   f"meilleure correspondance parmi {concurrents} émissions ayant traité "
+                                   f"un sujet du jour (sujet le plus consulté, épisode le plus récent, audience)")
                                   + (f" ; {', '.join(atouts)}" if atouts else "") + ".")],
             ["🚫 Écartés", ecarte_txt],
         ]
